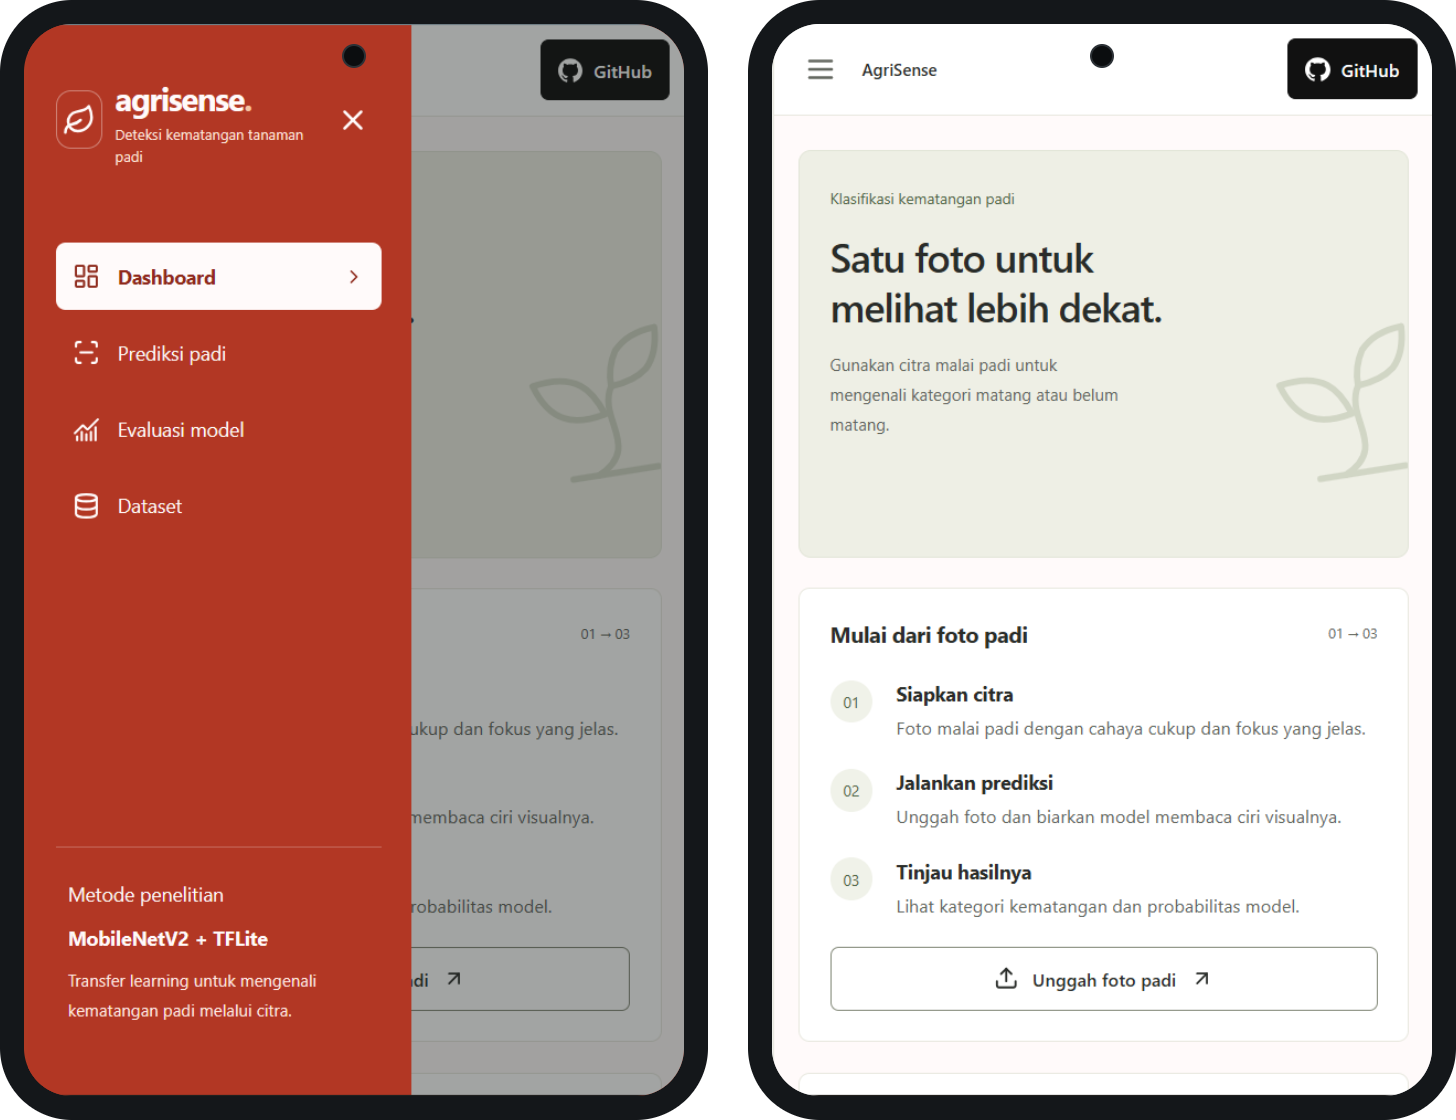
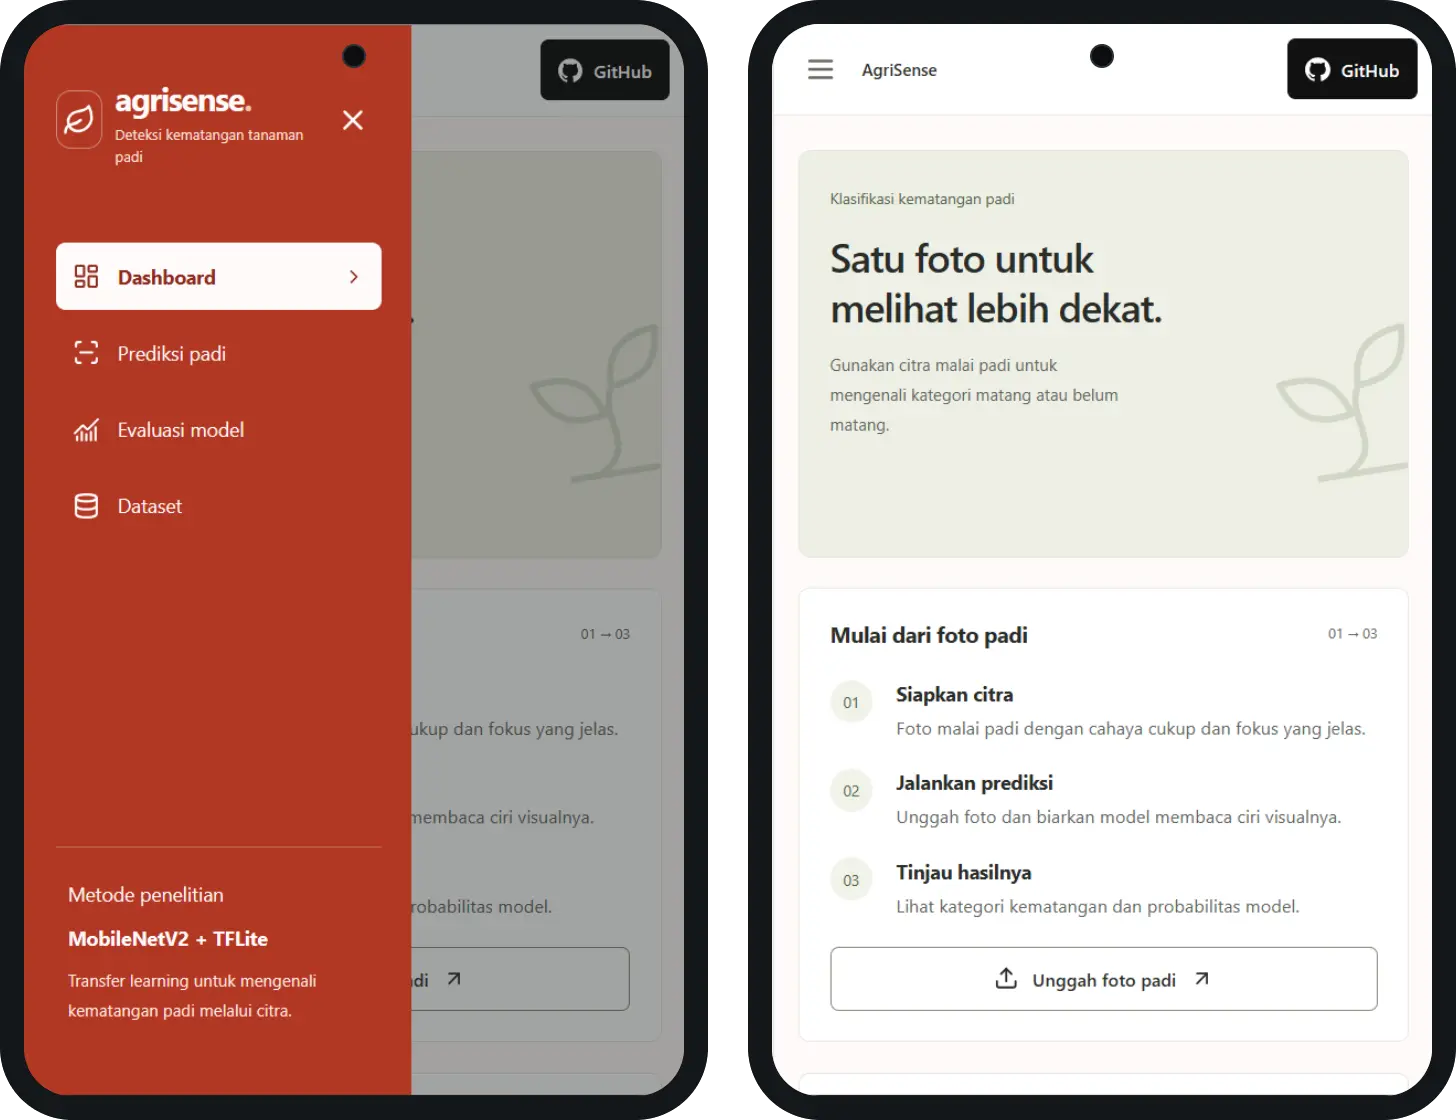
Refine mobile footer, image cursors, and tablet project spacing

diff --git a/src/components/Footer.tsx b/src/components/Footer.tsx
@@ -35,58 +35,55 @@ export const Footer = () => {
 					</p>
 					<nav className="footer-socials" aria-label={t.footer.socialLinks}>
 						{footerLinks.map(({ title, href }) => (
-							<div key={title} className="inline-flex items-center gap-4">
-								<a
-									href={href}
-									aria-label={title}
-									title={title}
-									className="footer-social-link group focus-visible:outline-2 focus-visible:outline-offset-4 focus-visible:outline-emerald-300"
-								>
-									<span className="footer-social-label relative z-10">
-										{title}
-										<span
-											aria-hidden
-											className="footer-social-underline pointer-events-none absolute -bottom-1 left-0 h-[2px] w-full overflow-hidden opacity-0 transition-opacity duration-300 ease-out group-hover:opacity-100"
-										>
-											<span className="block h-full w-[200%] -translate-x-1/2 bg-linear-to-r/srgb from-emerald-300 via-cyan-300 to-blue-500 transition-transform duration-500 ease-out group-hover:translate-x-0" />
-										</span>
-									</span>
-									<ArrowUpRightIcon
-										aria-hidden="true"
-										className="footer-social-arrow size-4 transition-transform duration-300 group-hover:translate-x-0.5 group-hover:-translate-y-0.5"
-										strokeWidth={2}
-									/>
-								</a>
-								{title === "Email" && (
-									<button
-										type="button"
-										className="footer-social-link group md:hidden tablet-portrait:hidden focus-visible:outline-2 focus-visible:outline-offset-4 focus-visible:outline-emerald-300"
-										onClick={() => {
-											scrollToSection("/", reduceMotion ? "instant" : "smooth");
-											if (window.location.pathname !== "/" || window.location.hash) {
-												history.pushState(null, "", "/");
-											}
-										}}
+							<a
+								key={title}
+								href={href}
+								aria-label={title}
+								title={title}
+								className="footer-social-link group focus-visible:outline-2 focus-visible:outline-offset-4 focus-visible:outline-emerald-300"
+							>
+								<span className="footer-social-label relative z-10">
+									{title}
+									<span
+										aria-hidden
+										className="footer-social-underline pointer-events-none absolute -bottom-1 left-0 h-[2px] w-full overflow-hidden opacity-0 transition-opacity duration-300 ease-out group-hover:opacity-100"
 									>
-										<span className="footer-social-label relative z-10 whitespace-nowrap">
-											{t.footer.backToTop}
-											<span
-												aria-hidden
-												className="footer-social-underline pointer-events-none absolute -bottom-1 left-0 h-[2px] w-full overflow-hidden opacity-0 transition-opacity duration-300 ease-out group-hover:opacity-100"
-											>
-												<span className="block h-full w-[200%] -translate-x-1/2 bg-linear-to-r/srgb from-emerald-300 via-cyan-300 to-blue-500 transition-transform duration-500 ease-out group-hover:translate-x-0" />
-											</span>
-										</span>
-										<ArrowUpRightIcon
-											aria-hidden="true"
-											className="footer-social-arrow size-4 transition-transform duration-300 group-hover:translate-x-0.5 group-hover:-translate-y-0.5"
-											strokeWidth={2}
-										/>
-									</button>
-								)}
-							</div>
+										<span className="block h-full w-[200%] -translate-x-1/2 bg-linear-to-r/srgb from-emerald-300 via-cyan-300 to-blue-500 transition-transform duration-500 ease-out group-hover:translate-x-0" />
+									</span>
+								</span>
+								<ArrowUpRightIcon
+									aria-hidden="true"
+									className="footer-social-arrow size-3 sm:size-4 transition-transform duration-300 group-hover:translate-x-0.5 group-hover:-translate-y-0.5"
+									strokeWidth={2}
+								/>
+							</a>
 						))}
 					</nav>
+					<button
+						type="button"
+						className="footer-social-link group md:hidden tablet-portrait:hidden focus-visible:outline-2 focus-visible:outline-offset-4 focus-visible:outline-emerald-300"
+						onClick={() => {
+							scrollToSection("/", reduceMotion ? "instant" : "smooth");
+							if (window.location.pathname !== "/" || window.location.hash) {
+								history.pushState(null, "", "/");
+							}
+						}}
+					>
+						<span className="footer-social-label relative z-10 whitespace-nowrap">
+							{t.footer.backToTop}
+							<span
+								aria-hidden
+								className="footer-social-underline pointer-events-none absolute -bottom-1 left-0 h-[2px] w-full overflow-hidden opacity-0 transition-opacity duration-300 ease-out group-hover:opacity-100"
+							>
+								<span className="block h-full w-[200%] -translate-x-1/2 bg-linear-to-r/srgb from-emerald-300 via-cyan-300 to-blue-500 transition-transform duration-500 ease-out group-hover:translate-x-0" />
+							</span>
+						</span>
+						<ArrowUpRightIcon
+							aria-hidden="true"
+							className="footer-social-arrow size-3 sm:size-4 transition-transform duration-300 group-hover:translate-x-0.5 group-hover:-translate-y-0.5"
+							strokeWidth={2}
+						/>
+					</button>
 				</div>
 			</div>
 			<div aria-hidden="true" className="relative -mb-[2.5vw] pt-[1vw] select-none">

diff --git a/src/components/Projects.tsx b/src/components/Projects.tsx
@@ -46,7 +46,6 @@ import { SectionBackground } from "@/components/SectionBackground";
 import { Card } from "@/components/Card";
 import { useEffect, useMemo, useRef, useState, type CSSProperties } from "react";
 import { useLanguage } from "@/lib/LanguageContext";
-import { twMerge } from "tailwind-merge";
 import { scroll } from "framer-motion";
 
 const ImageViewer = dynamic(() =>
@@ -210,7 +209,6 @@ export const ProjectsSection = () => {
 			projectAssets.map((project) => ({
 				...project,
 				...t.projects.items[project.id],
-				imageClassName: project.id === "agrisense" ? "agrisense-image" : undefined,
 			})),
 		[t.projects.items],
 	);
@@ -387,7 +385,7 @@ export const ProjectsSection = () => {
 						<div
 							key={project.id}
 							data-project-card
-							className="sticky top-16 desktop:top-28 tablet-landscape:top-[82px] min-h-[var(--project-card-height)] mt-[var(--project-stack-margin)] md:min-h-0 md:mt-0 tablet-portrait:min-h-0 tablet-portrait:mt-0"
+							className="sticky top-16 desktop:top-28 tablet-landscape:top-[66px] min-h-[var(--project-card-height)] mt-[var(--project-stack-margin)] md:min-h-0 md:mt-0 tablet-portrait:min-h-0 tablet-portrait:mt-0"
 							style={
 								{
 									"--project-stack-margin": `${(cardHeights[projectIndex - 1] ?? cardHeight) - cardHeight}px`,
@@ -491,10 +489,7 @@ export const ProjectsSection = () => {
 											alt={project.title}
 											draggable={false}
 											sizes="(min-width: 768px) and (orientation: portrait) and (pointer: coarse) calc(50vw - 2.5rem), (min-width: 600px) and (orientation: portrait) and (pointer: coarse) calc(50vw - 1.5rem), (min-width: 1200px) 1000px, (min-width: 768px) 277px, (min-width: 375px) 279px, calc(100vw - 6rem)"
-											className={twMerge(
-												"mt-4 -mb-4 h-auto w-full object-cover object-left-top [clip-path:inset(1px_round_3%/5%)] md:mt-0 md:-mb-0 md:h-full project-tablet:absolute project-tablet:top-0 project-tablet:left-0 project-tablet:w-auto project-tablet:max-w-none tablet-portrait:absolute tablet-portrait:top-0 tablet-portrait:left-0 tablet-portrait:mt-0 tablet-portrait:mb-0 tablet-portrait:h-full tablet-portrait:w-auto tablet-portrait:max-w-none project-desktop:absolute project-desktop:top-0 project-desktop:left-0 project-desktop:h-full project-desktop:w-auto project-desktop:max-w-none",
-												project.imageClassName,
-											)}
+											className="mt-4 -mb-4 h-auto w-full object-cover object-left-top [clip-path:inset(1px_round_3%/5%)] md:mt-0 md:-mb-0 md:h-full project-tablet:absolute project-tablet:top-0 project-tablet:left-0 project-tablet:w-auto project-tablet:max-w-none tablet-portrait:absolute tablet-portrait:top-0 tablet-portrait:left-0 tablet-portrait:mt-0 tablet-portrait:mb-0 tablet-portrait:h-full tablet-portrait:w-auto tablet-portrait:max-w-none project-desktop:absolute project-desktop:top-0 project-desktop:left-0 project-desktop:h-full project-desktop:w-auto project-desktop:max-w-none"
 										/>
 									</button>
 								)}

diff --git a/src/components/StarCursor.tsx b/src/components/StarCursor.tsx
@@ -35,9 +35,37 @@ export const StarCursor = () => {
 			});
 		};
 
+		const endNativeDrag = () => {
+			document.documentElement.removeAttribute("data-grab-cursor");
+		};
+		const reset = () => {
+			hide();
+			endNativeDrag();
+		};
+		const startNativeDrag = (event: PointerEvent) => {
+			if (
+				event.pointerType !== "mouse" ||
+				event.button !== 0 ||
+				!(event.target instanceof Element) ||
+				!event.target.closest(".cursor-grab")
+			)
+				return;
+			hide();
+			document.documentElement.setAttribute("data-grab-cursor", "");
+		};
+
 		const handleMove = (event: PointerEvent) => {
 			if (!media.matches || event.pointerType !== "mouse") {
 				hide();
+				return;
+			}
+
+			if (
+				(event.target instanceof Element &&
+					event.target.closest(".cursor-zoom-in, .cursor-grab")) ||
+				document.documentElement.hasAttribute("data-grab-cursor")
+			) {
+				if (visible) hide();
 				return;
 			}
 
@@ -89,24 +117,30 @@ export const StarCursor = () => {
 			if (event.key === "Tab") hide();
 		};
 		const handleMediaChange = () => {
-			if (!media.matches) hide();
+			if (!media.matches) reset();
 		};
 
 		window.addEventListener("pointermove", handleMove, { passive: true });
-		window.addEventListener("blur", hide);
+		window.addEventListener("pointerdown", startNativeDrag, true);
+		window.addEventListener("pointerup", endNativeDrag, true);
+		window.addEventListener("pointercancel", endNativeDrag, true);
+		window.addEventListener("blur", reset);
 		window.addEventListener("keydown", handleKeyDown);
 		document.addEventListener("pointerleave", hide);
-		document.addEventListener("visibilitychange", hide);
+		document.addEventListener("visibilitychange", reset);
 		media.addEventListener("change", handleMediaChange);
 
 		return () => {
 			window.removeEventListener("pointermove", handleMove);
-			window.removeEventListener("blur", hide);
+			window.removeEventListener("pointerdown", startNativeDrag, true);
+			window.removeEventListener("pointerup", endNativeDrag, true);
+			window.removeEventListener("pointercancel", endNativeDrag, true);
+			window.removeEventListener("blur", reset);
 			window.removeEventListener("keydown", handleKeyDown);
 			document.removeEventListener("pointerleave", hide);
-			document.removeEventListener("visibilitychange", hide);
+			document.removeEventListener("visibilitychange", reset);
 			media.removeEventListener("change", handleMediaChange);
-			hide();
+			reset();
 		};
 	}, [x, y, circleX, circleY]);
 

diff --git a/src/app/globals.css b/src/app/globals.css
@@ -123,7 +123,7 @@
 
 	html[data-star-cursor],
 	html[data-star-cursor] * {
-		/* biome-ignore lint/complexity/noImportantStyles: Replace utility and inline drag cursors only while the star cursor is active. */
+		/* biome-ignore lint/complexity/noImportantStyles: Hide native pointers only while the custom star cursor is active. */
 		cursor: none !important;
 	}
 
@@ -132,6 +132,13 @@
 	}
 	.hero-ring {
 		@apply absolute inset-0 border-2 top-1/2 left-1/2 -translate-x-1/2 -translate-y-1/2 rounded-full border-emerald-300/5 shadow-[0_0_80px_inset] shadow-emerald-300/5;
+	}
+}
+
+@layer utilities {
+	html[data-grab-cursor],
+	html[data-grab-cursor] * {
+		cursor: grabbing;
 	}
 }
 
@@ -152,12 +159,6 @@
 }
 
 @layer components {
-	.agrisense-image {
-		mask-image: url("/images/agrisense-mask.svg");
-		mask-size: 100% 100%;
-		mask-repeat: no-repeat;
-	}
-
 	.footer-glow {
 		opacity: 0.5;
 	}
@@ -173,16 +174,17 @@
 		display: flex;
 		flex-direction: column;
 		align-items: flex-start;
-		gap: 8px;
-		padding-block: 32px;
+		padding-block: 24px;
 		border-top: 1px solid rgb(255 255 255 / 0.08);
 	}
 
 	.footer-socials {
 		display: flex;
-		flex-wrap: wrap;
+		width: 100%;
+		flex-wrap: nowrap;
 		align-items: center;
-		gap: 0 16px;
+		justify-content: space-between;
+		gap: 0 8px;
 	}
 
 	.footer-social-link {
@@ -205,9 +207,21 @@
 	}
 
 	.footer-copyright {
+		margin-bottom: 8px;
 		color: rgb(255 255 255 / 0.6);
 		font-size: 14px;
 		line-height: 20px;
+	}
+
+	@media (width < 375px) {
+		.footer-social-link {
+			gap: 4px;
+		}
+
+		.footer-social-label,
+		.footer-copyright {
+			font-size: 12px;
+		}
 	}
 
 	@media (min-width: 640px) {
@@ -221,9 +235,15 @@
 			align-items: center;
 			justify-content: space-between;
 			gap: 8px 24px;
+			padding-block: 32px;
+		}
+
+		.footer-copyright {
+			margin-bottom: 0;
 		}
 
 		.footer-socials {
+			width: auto;
 			gap: 0 24px;
 		}
 	}

diff --git a/src/components/ImageViewer.tsx b/src/components/ImageViewer.tsx
@@ -9,7 +9,6 @@ import { useLanguage } from "@/lib/LanguageContext";
 interface ViewerImage {
 	title: string;
 	image: string | StaticImageData;
-	imageClassName?: string;
 }
 
 interface ImageViewerProps {
@@ -94,7 +93,6 @@ export const ImageViewer = ({
 					className={twMerge(
 						"mx-auto h-auto w-auto max-w-full max-h-[calc(100dvh-7rem)] object-contain rounded-lg",
 						imageClassName,
-						currentImage.imageClassName,
 					)}
 				/>
 			</div>

diff --git a/src/components/Certificates.tsx b/src/components/Certificates.tsx
@@ -344,7 +344,6 @@ export const CertificatesSection = () => {
 									setSpeed(40);
 								}}
 								onDragTransitionEnd={() => setIsDragging(false)}
-								whileTap={{ cursor: "grabbing" }}
 							>
 								{loopedCertificates.map((certificate, idx) => (
 									<CertificateSlide

diff --git a/README.md b/README.md
@@ -59,7 +59,7 @@ npm ci
 npm run dev
 ```
 
-`--overlay` adds the archived assets and preserves existing application files. The working branch stays on `main`, and its README is preserved. The archive files keep their original paths and are ignored by `.gitignore` on `main`.
+`--overlay` adds the archived assets and preserves existing application files. The working branch stays on `main`, and its README is preserved. The archive files are ignored by `.gitignore` on `main`. The previous AgriSense preview is named `agrisense-previous.webp` so restoring the archive preserves the active transparent image.
 
 ## Commands
 
